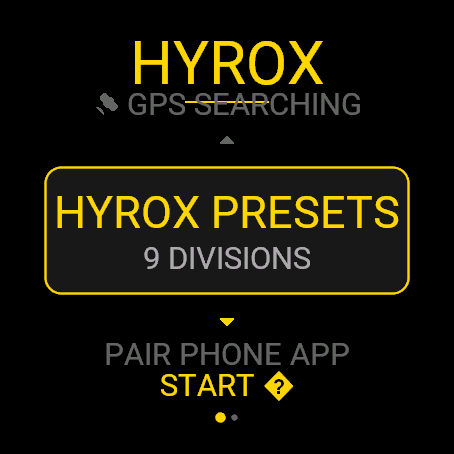
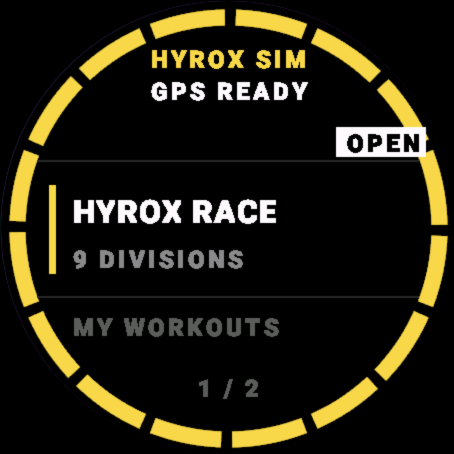
2.0 문서·스크린샷: 화면 설명, 빌드 방법, 기기 표, 스토어 문구와 캡처 갱신

Changed region(s): [[0.0, 0.0, 0.9868, 0.9868]]

diff --git a/.handoffs/latest.md b/.handoffs/latest.md
@@ -1,66 +1,32 @@
-# Handoff — 2026-04-19
+# Handoff — 2026-10-12
 
 ## 현재 상태
-가민 Connect IQ 워치 앱 Phase 1-7 **전체 완료**. 다음은 iOS 통합(`../HyroxSim-iOS`)과 안드로이드 신규 앱(`../HyroxSim-Android`).
+`release/2.0` 브랜치. 워치 앱 2.0 화면 전면 개편 완료, 버전 2.0.0. 푸시·스토어 제출은 아직.
 
-## 완료한 Phase
+## 이번에 한 일
+- 모든 화면을 폰 앱 2.0 디자인(블랙+골드, 16칸 진행 링, 굵은 이탤릭 숫자, 버튼 힌트)으로 다시 그림
+  - 공통: `source/UI/Styles.mc`(팔레트 amoled/mip), `Fonts.mc`, `Ui.mc`, `Ring.mc`, `WheelView.mc`
+  - 화면: `HomeView`, `DivisionPickerView`(+ROX 선택), `CustomWorkoutsView`, `ActionMenu`, `ActiveWorkoutView`, `ResultView`
+- 전용 비트맵 폰트: `tools/numfont/build.swift` → `resources*/fonts/` (기기 크기별 4벌)
+- 화면 바로가기(디버그 전용): `source/Debug/DebugLaunch.mc`, `tools/screenshots/shoot.sh`
+- 디버그·테스트 빌드는 폰 통신 끔 (`phoneLinkEnabled()`), 실기기는 `RELEASE=1 ./scripts/build.sh`
+- 버린 운동이 앱 종료 때 폰 outbox 에 들어가던 문제 수정 (`ActionMenu` discard → `markDiscarded`)
+- 테스트 20개 (기존 13 + `RingTests` 7)
 
-| Phase | 내용 | 커밋 |
-|---|---|---|
-| 0 | 스캐폴딩 + 빌드 파이프라인 + 스펙 문서 | `c060652` |
-| 1 | 도메인/엔진 포팅 + 단위 테스트 7 PASS | `c1fc864`~`52a799f` |
-| 2 | UI MVP (Home/DivisionPicker/ActiveWorkout/ActionMenu/Result + Styles) | `a4947a9` |
-| 3 | HR 샘플링 + ActivityRecording FIT 기록 | `b4583f5` |
-| 4 | WorkoutStorage 영속 outbox | `164dd80` (4+6 합본) |
-| 6 | GoalStore/DeltaCalculator/PaceReference 델타 badge | `164dd80` |
-| 5+7 | PhoneMessageHandler + CompletedWorkoutCodec + MessageProtocol | `3c8be14` |
+## 확인한 것
+- 5개 기기 × SDK 9.1.0/9.2.0 × 디버그/릴리스/테스트 빌드 30개 성공
+- 단위 테스트 20/20: fr265, fenix7 (SDK 9.2.0 시뮬레이터)
+- 시뮬레이터 캡처: `docs/screenshots/2.0/` (fr265·fenix7 전 화면, 나머지 주요 화면)
 
-## 빌드/테스트
-
-```bash
-./scripts/build.sh fenix7          # 빌드
-./scripts/test.sh fenix7            # 엔진 단위 테스트 7종 실행
-./scripts/run-sim.sh fenix7         # 시뮬레이터 실행
-```
-
-현재 SDK 설치된 기기: fenix/epix/venu/vivoactive 계열. **FR265/FR965는 미설치** — SDK Manager에서 다운로드 필요 (빌드는 동작하지만 manifest WARNING).
-
-## 환경
-- Connect IQ SDK **9.1.0**
-- Homebrew `openjdk@17` (keg-only, 빌드 스크립트가 자동 해결)
-- `developer_key.der` 생성됨 (gitignore)
-
-## 미적용 Phase
-
-| Phase | 상태 |
-|---|---|
-| 8 | 실기기 멀티 테스트 — 기기 필요 |
-| 9 | Connect IQ Store 제출 — 스토어 계정 + 아이콘 에셋 정비 |
-| 10 | Custom Data Field (네이티브 러닝 액티비티용) — 별도 CIQ 프로젝트 |
+## 확인 못 한 것
+- 실기기 동작(버튼 감, MIP 실제 색, 햇빛 아래 가독성), 폰과의 실제 동기화
+- 터치 입력(목록 탭·스와이프)과 버튼 입력 — 시뮬레이터에 키 입력을 스크립트로 넣지 못해 화면만 확인
+- 한글 운동 이름: 시뮬레이터 fr265 시스템 폰트에 한글이 없어 ◇ 로 보임 (한국어 펌웨어 실기기 확인 필요)
 
 ## 다음 작업
+1. 실기기 사이드로드(`RELEASE=1 ./scripts/build.sh <device>`)로 버튼·터치·동기화 확인
+2. `./scripts/package.sh` 로 `.iq` 만들고 스토어 제출 (`docs/STORE_LISTING.md` What's New 2.0.0)
 
-### 1. iOS 통합 (`../HyroxSim-iOS`)
-- `Targets/HyroxCore/Sources/Models/WorkoutSource.swift` 추가 (`watch/manual/garmin`)
-- `StoredWorkout`에 `sourceRaw: String` 컬럼 + 마이그레이션
-- `Targets/HyroxSim/Sources/Integration/Garmin/`:
-  - `GarminBridge.swift` — ConnectIQ.framework 래퍼
-  - `GarminDeviceStore.swift`
-  - `GarminMessageCodec.swift` (MessageProtocol 상수 Swift 미러)
-  - `GarminImportService.swift`
-  - `GarminGoalSyncService.swift`
-  - `UI/GarminPairingViewController.swift`
-- ConnectIQ.xcframework는 **사용자가 수동 드롭인** 필요 — Garmin 개발자 포털 다운로드
-- `Frameworks/README.md`에 드롭인 절차 명시
-
-### 2. 안드로이드 신규 (`../HyroxSim-Android`)
-- 기존 폴더는 사용자가 별도 삭제 예정
-- Kotlin + Compose + Room
-- `core/domain`, `core/engine`, `core/persistence`, `feature/home`, `feature/history`, `integration/garmin`
-- Garmin Connect IQ Android SDK (AAR) 수동 드롭인
-
-## 핵심 파일 포인터
-- 프로토콜 단일 진실 원본: `docs/MESSAGE_PROTOCOL.md`
-- 도메인 포팅 스펙: `docs/SPEC.md`
-- 디자인 토큰: `source/UI/Styles.mc`
-- 데스크톱 노트: `~/Desktop/HyroxSim-Garmin/Phase1-도메인포팅.md`, `Phase2-7-워치앱완성.md`
+## 재탐색 명령
+- SDK 경로: `cat "$HOME/Library/Application Support/Garmin/ConnectIQ/current-sdk.cfg"`
+- 화면 이름 목록: `sed -n 1,20p tools/screenshots/shoot.sh`

diff --git a/README.md b/README.md
@@ -6,36 +6,84 @@ iOS/안드로이드 메인 앱과 양방향 동기화:
 - iOS → 워치: 목표 시간, 디비전
 - 워치 → iOS: 운동 결과 (HR 포함)
 
+## 화면 (2.0)
+
+블랙 + 골드, 폰 앱 2.0 과 같은 디자인. 화면 테두리의 16칸 링이 레이스 진행을 보여 준다
+(런 8 + 스테이션 8, ROX 존은 옆 런에 포함). 끝난 칸은 목표보다 빠르면 골드, 느리면 오렌지,
+지금 칸은 흰색. 터치가 없어도 쓸 수 있게 START·BACK 버튼 옆에 동작이 적혀 있다.
+
+| 홈 | 런 | 스테이션 | 결과 |
+|---|---|---|---|
+| ![홈](docs/screenshots/2.0/fr265/home.png) | ![런](docs/screenshots/2.0/fr265/run.png) | ![스테이션](docs/screenshots/2.0/fr265/station.png) | ![결과](docs/screenshots/2.0/fr265/result.png) |
+
+fēnix 7 (260px, MIP 64색):
+
+| 런 | 스테이션 | 일시정지 | 구간 기록 |
+|---|---|---|---|
+| ![런](docs/screenshots/2.0/fenix7/run.png) | ![스테이션](docs/screenshots/2.0/fenix7/station.png) | ![일시정지](docs/screenshots/2.0/fenix7/paused.png) | ![구간 기록](docs/screenshots/2.0/fenix7/splits.png) |
+
+전체 캡처: `docs/screenshots/2.0/<기기>/` (fr265·fenix7 은 20개 화면 전부).
+
 ## 빌드 & 실행
 
 ### 사전 요구사항
 - macOS
-- Connect IQ SDK 9.1.0+ (SDK Manager로 설치)
+- Connect IQ SDK 9.1.0 이상 (SDK Manager로 설치, 9.2.0 에서도 빌드 확인)
 - VS Code + Monkey C 확장 (Garmin 공식)
 - 생성된 `developer_key.der` (프로젝트 루트)
 
 ### 첫 실행
 
 ```bash
-# 시뮬레이터에서 FR265로 실행
+# 시뮬레이터에서 실행 (fr265 | fr965 | fenix7 | fenix847mm | vivoactive5)
 ./scripts/run-sim.sh fr265
-
-# FR965로 실행
-./scripts/run-sim.sh fr965
 
 # 빌드만
 ./scripts/build.sh fr265
+
+# 단위 테스트 (시뮬레이터 필요)
+./scripts/test.sh fenix7
+
+# 실제 워치에 올릴 빌드
+RELEASE=1 ./scripts/build.sh fr265
+```
+
+**디버그 빌드는 폰과 통신하지 않는다.** 시뮬레이터에는 폰이 없어서 전송할 때마다
+"There is no data connection" 경고창이 뜨기 때문에, 디버그·테스트 빌드에서는 폰 연결을
+꺼 두었다 (`phoneLinkEnabled()`, `source/Sync/PhoneMessageHandler.mc`). 폰 동기화를
+실제 워치에서 확인하려면 `RELEASE=1` 로 빌드한다. 스토어용 `.iq` (`scripts/package.sh`)는
+항상 릴리스 빌드다.
+
+### 화면 바로 보기
+
+운동 중·결과 화면을 버튼 조작 없이 띄우는 디버그 전용 진입점이 있다.
+
+```bash
+tools/screenshots/shoot.sh station fr265 bin/shot.prg   # 화면 이름은 스크립트 주석 참고
+tools/screenshots/shoot.sh tour fenix7 bin/tour.prg     # 모든 화면을 차례로
+```
+
+`(:debug)` 코드라 릴리스 빌드에는 들어가지 않는다.
+
+### 폰트 다시 만들기
+
+숫자·캡션 폰트는 Roboto Black (Apache-2.0) 을 화면 크기별로 구운 비트맵이다.
+
+```bash
+swift tools/numfont/build.swift    # resources*/fonts/ 를 전부 다시 만든다
 ```
 
 ## 디렉토리 구조
 
 | 경로 | 내용 |
 |---|---|
-| `source/` | Monkey C 소스 (Domain/Engine/Sensors/Goal/Sync/Storage/UI) |
-| `resources/` | 문자열/이미지/메뉴 리소스 |
-| `docs/` | 포팅 스펙, 메시지 프로토콜, 기기 지원 매트릭스 |
-| `scripts/` | 빌드/실행 헬퍼 |
-| `tests/unit/` | Toybox.Test 단위 테스트 |
+| `source/` | Monkey C 소스 (Domain/Engine/Sensors/Goal/Sync/Storage/UI/Debug/Tests) |
+| `resources/` | 문자열, 아이콘, 454px 화면용 폰트 |
+| `resources-<기기>/` | 화면 크기가 다른 기기의 아이콘·폰트 |
+| `docs/` | 포팅 스펙, 메시지 프로토콜, 기기 지원 매트릭스, 스크린샷 |
+| `scripts/` | 빌드/실행/테스트/패키징 |
+| `tools/numfont/` | 폰트 생성기 |
+| `tools/screenshots/` | 화면 바로가기 빌드 |
 | `.handoffs/` | 세션 연속성용 작업 메모 |
 
 ## 문서

diff --git a/docs/STORE_LISTING.md b/docs/STORE_LISTING.md
@@ -113,17 +113,32 @@ Bluetooth 범위 안에 들어오면 결과가 폰으로 자동 전송됩니다.
 
 ---
 
-## What's New (1.0.0 — 첫 출시)
+## What's New (2.0.0)
 
 ```
-Initial release.
+New look, matching the HyroxSim 2.0 phone app.
+• Progress ring: 16 blocks around the screen — gold when a run or station
+  beat its goal, orange when it did not.
+• Bigger, bolder race clock with the goal delta right under it.
+• Button hints at START and BACK, so you never guess which key does what.
+• New finish summary with your slowest station and paged splits.
+• Station target and weight shown during each station.
+• Fix: a discarded workout could still be sent to the phone.
 ```
 
 또는 한국어로:
 
 ```
-첫 출시.
+HyroxSim 2.0 폰 앱과 같은 새 디자인.
+• 진행 링: 화면 테두리 16칸 — 목표보다 빠르면 골드, 느리면 오렌지.
+• 더 크고 굵은 구간 시계와 바로 아래 목표 대비 시간.
+• START·BACK 버튼 옆에 동작 표시.
+• 새 완주 요약(가장 오래 걸린 스테이션)과 페이지식 구간 기록.
+• 스테이션 중 목표 거리·횟수와 무게 표시.
+• 수정: 버린 운동이 폰으로 전송될 수 있던 문제.
 ```
+
+이전: 1.0.0 — 첫 출시.
 
 ---
 
@@ -157,29 +172,36 @@ Initial release.
 |---|---|---|
 | `.iq` 패키지 | `bin/HyroxSim.iq` | — |
 | 스토어 마케팅 아이콘 | `assets/store_icon.png` | 500×500 PNG |
-| 스크린샷 (기기별) | `assets/screenshots/{device}/` | fr265 360×360, fr965 454×454 |
+| 스크린샷 | `assets/screenshots/fr965/` | 454×454 |
 
 ---
 
 ## 스크린샷 캡처 가이드
 
-**시뮬레이터 캡처 단축키**: `Cmd+S` (Connect IQ 시뮬레이터 메뉴 → File → Save Screenshot)
-저장 경로를 `assets/screenshots/{기기}/{시나리오}.png` 패턴으로.
+스토어용 `assets/screenshots/fr965/` 5장은 시뮬레이터 캡처로 만든다. 운동 중 화면은
+버튼을 누르지 않고도 볼 수 있도록 디버그 빌드에 화면 바로가기가 들어 있다
+(`source/Debug/DebugLaunch.mc`, 릴리스 빌드에서는 빠진다).
 
-**캡처할 5개 시나리오** (fr265, fr965 각각):
+```bash
+# 한 화면으로 바로 시작하는 빌드
+tools/screenshots/shoot.sh station fr965 bin/shot.prg
+"$SDK_PATH/bin/monkeydo" bin/shot.prg fr965
 
-| # | 화면 | 진입 방법 | 파일명 |
-|---|---|---|---|
-| 1 | Home (HYROX PRESETS 포커스) | 시작 직후 | `01_home.png` |
-| 2 | Division Picker (Mens Open Single 하이라이트) | 홈 → SELECT | `02_division.png` |
-| 3 | Rox Zone 토글 (ON 하이라이트) | 디비전 선택 후 | `03_rox_toggle.png` |
-| 4 | Active Workout — Run 1/8 진행 중 (HR + GPS pace + delta 보임) | 시작 후 ~30s, GPS 잡힌 상태 | `04_active_run.png` |
-| 5 | Result (Finished + 세그먼트 리스트) | ActionMenu → End workout | `05_result.png` |
+# 모든 화면을 4초씩 차례로 보여 주는 빌드 (화면이 바뀔 때마다 "SHOT <이름>" 출력)
+tools/screenshots/shoot.sh tour fr965 bin/tour.prg
+```
 
-**시뮬레이터 데이터 주입 (Run 화면을 풍부하게 보이려면)**
-- Simulation → Sensors → Heart Rate → 142 (예시)
-- Simulation → Position → 위경도 + 속도 입력 → GPS pace 표시됨
-- Simulation → Time → Time Compression 활성화하면 시간 빠르게 흘러감
+시뮬레이터 창을 캡처한 뒤 화면 영역만 잘라 454×454 로 저장한다.
+
+| 파일명 | 화면 (`shoot.sh` 이름) |
+|---|---|
+| `01_home.png` | 홈, 폰 연결됨 (`home`) |
+| `02_division.png` | 디비전 선택 (`division`) |
+| `03_rox_onoff.png` | ROX ZONE 선택 (`roxzone`) |
+| `04_workout.png` | 운동 중 스테이션 (`station`) |
+| `05_finish.png` | 결과 요약 (`result`) |
+
+기기별 전체 화면 캡처는 `docs/screenshots/2.0/` 에 있다.
 
 ---
 

diff --git a/docs/DEVICE_SUPPORT.md b/docs/DEVICE_SUPPORT.md
@@ -1,26 +1,18 @@
 # 지원 기기 매트릭스
 
-## MVP (P0)
+## 지원 기기 (2.0)
 
-| 기기 | product id | 해상도 | 디스플레이 | CIQ | 메모리 | 비고 |
-|---|---|---|---|---|---|---|
-| Forerunner 265 | `fr265` | 360×360 | AMOLED round | 4.2 | ~128KB | 터치, HYROX 대상층 핵심 |
-| Forerunner 965 | `fr965` | 454×454 | AMOLED round | 4.2 | ~512KB | 터치, 프리미엄 |
+| 기기 | product id | 해상도 | 디스플레이 | 버튼 | 폰트·아이콘 리소스 |
+|---|---|---|---|---|---|
+| Forerunner 265 | `fr265` | 416×416 | AMOLED | 5 + 터치 | `resources-fr265` |
+| Forerunner 965 | `fr965` | 454×454 | AMOLED | 5 + 터치 | `resources` |
+| fēnix 7 | `fenix7` | 260×260 | MIP 64색 | 5 + 터치 | `resources-fenix7` |
+| fēnix 8 47mm | `fenix847mm` | 454×454 | AMOLED | 5 + 터치 | `resources` |
+| vívoactive 5 | `vivoactive5` | 390×390 | AMOLED | 2 + 터치 | `resources-vivoactive5` |
 
-## Phase 8 확장 (P1)
-
-| 기기 | product id | 해상도 | 비고 |
-|---|---|---|---|
-| fēnix 7 | `fenix7` | 260×260 | MIP, 비AMOLED |
-| epix 2 | `epix2` | 416×416 | AMOLED |
-| Venu 3 | `venu3` | 454×454 | AMOLED, CIQ 5.0 |
-| Venu 3S | `venu3s` | 390×390 | AMOLED |
-
-## P2 (후순위)
-
-- Forerunner 255 (`fr255`) — 비터치, 버튼 전용 UI 별도 구현 필요
-- Vivoactive 5 (`vivoactive5`)
-- Edge 계열 — 사이클링 전용, HYROX 부적합
+다섯 기기 모두 워치 앱 메모리 한도는 768KB (시뮬레이터 표시 763.6kB).
+START/STOP 은 오른쪽 위(−30°), BACK 은 오른쪽 아래(+30°)에 있어 버튼 힌트 위치가 같다.
+vívoactive 5 는 위/아래 버튼이 없어 목록을 밀거나 눌러서 고른다.
 
 ## 제외 기기
 
@@ -41,14 +33,15 @@
 ## 해상도/폼팩터 대응 원칙
 
 - **round 위주** 설계. rectangular(edge 계열) 제외
-- 텍스트 크기는 `FONT_LARGE`, `FONT_MEDIUM`, `FONT_SMALL` 상수만 사용 (기기별 자동 스케일)
+- 위치·크기는 화면 지름의 1/200 단위로 적는다 (`Ui.px`). 260~454px 화면이 한 레이아웃을 쓴다
+- 숫자·캡션은 화면 크기별로 구운 전용 폰트 (`tools/numfont/build.swift`). 폰에서 온 운동 이름처럼 한글이 섞일 수 있는 글자만 시스템 폰트
+- fēnix 7 (MIP 64색) 은 패널이 낼 수 있는 색으로 바꾼 팔레트를 쓴다 (`Styles.mc` 의 `:mip`)
 - Layout은 코드 기반 (Rez layout XML 최소화) — 기기별 분기 최소화
 
-## 메모리 한계 대응
+## 메모리
 
-| 기기 | App 예산 | 대응 |
-|---|---|---|
-| FR265 (~128KB) | HR 샘플 링버퍼 1800개(10분분) 제한 | 10분 초과 시 파일 저장 후 버퍼 비움 |
-| FR965 (~512KB) | 여유 | 제한 없음 |
+- 2.0 화면은 시뮬레이터에서 약 97kB / 763.6kB (fr265·fenix7, 운동 중 화면, 80초 동안 변화 없음)
+- 폰트는 그래픽 리소스 풀에 올라가며 앱 힙을 쓰지 않는다
+- HR·위치 샘플은 엔진에서 5~15초 간격으로 줄이고 구간당 360개로 막는다 (`WorkoutEngine.mc`)
 
 메모리 프로파일: `Cmd+Shift+P` → "Monkey C: View Runtime Memory" (시뮬레이터 실행 중)

diff --git a/.handoffs/2026-10-12.md b/.handoffs/2026-10-12.md
@@ -1,0 +1,32 @@
+# Handoff — 2026-10-12
+
+## 현재 상태
+`release/2.0` 브랜치. 워치 앱 2.0 화면 전면 개편 완료, 버전 2.0.0. 푸시·스토어 제출은 아직.
+
+## 이번에 한 일
+- 모든 화면을 폰 앱 2.0 디자인(블랙+골드, 16칸 진행 링, 굵은 이탤릭 숫자, 버튼 힌트)으로 다시 그림
+  - 공통: `source/UI/Styles.mc`(팔레트 amoled/mip), `Fonts.mc`, `Ui.mc`, `Ring.mc`, `WheelView.mc`
+  - 화면: `HomeView`, `DivisionPickerView`(+ROX 선택), `CustomWorkoutsView`, `ActionMenu`, `ActiveWorkoutView`, `ResultView`
+- 전용 비트맵 폰트: `tools/numfont/build.swift` → `resources*/fonts/` (기기 크기별 4벌)
+- 화면 바로가기(디버그 전용): `source/Debug/DebugLaunch.mc`, `tools/screenshots/shoot.sh`
+- 디버그·테스트 빌드는 폰 통신 끔 (`phoneLinkEnabled()`), 실기기는 `RELEASE=1 ./scripts/build.sh`
+- 버린 운동이 앱 종료 때 폰 outbox 에 들어가던 문제 수정 (`ActionMenu` discard → `markDiscarded`)
+- 테스트 20개 (기존 13 + `RingTests` 7)
+
+## 확인한 것
+- 5개 기기 × SDK 9.1.0/9.2.0 × 디버그/릴리스/테스트 빌드 30개 성공
+- 단위 테스트 20/20: fr265, fenix7 (SDK 9.2.0 시뮬레이터)
+- 시뮬레이터 캡처: `docs/screenshots/2.0/` (fr265·fenix7 전 화면, 나머지 주요 화면)
+
+## 확인 못 한 것
+- 실기기 동작(버튼 감, MIP 실제 색, 햇빛 아래 가독성), 폰과의 실제 동기화
+- 터치 입력(목록 탭·스와이프)과 버튼 입력 — 시뮬레이터에 키 입력을 스크립트로 넣지 못해 화면만 확인
+- 한글 운동 이름: 시뮬레이터 fr265 시스템 폰트에 한글이 없어 ◇ 로 보임 (한국어 펌웨어 실기기 확인 필요)
+
+## 다음 작업
+1. 실기기 사이드로드(`RELEASE=1 ./scripts/build.sh <device>`)로 버튼·터치·동기화 확인
+2. `./scripts/package.sh` 로 `.iq` 만들고 스토어 제출 (`docs/STORE_LISTING.md` What's New 2.0.0)
+
+## 재탐색 명령
+- SDK 경로: `cat "$HOME/Library/Application Support/Garmin/ConnectIQ/current-sdk.cfg"`
+- 화면 이름 목록: `sed -n 1,20p tools/screenshots/shoot.sh`

diff --git a/docs/SETUP.md b/docs/SETUP.md
@@ -7,7 +7,7 @@ https://developer.garmin.com/connect-iq/sdk/
 
 1. macOS 설치 파일 다운로드 → 실행
 2. SDK Manager 실행 (`/Applications/Garmin/...`)
-3. SDK 목록에서 **9.1.0** (또는 최신 안정) "Install"
+3. SDK 목록에서 **9.1.0** 이상 (9.2.0 확인) "Install"
 4. "Set as Current" 확인
 
 ### 확인
